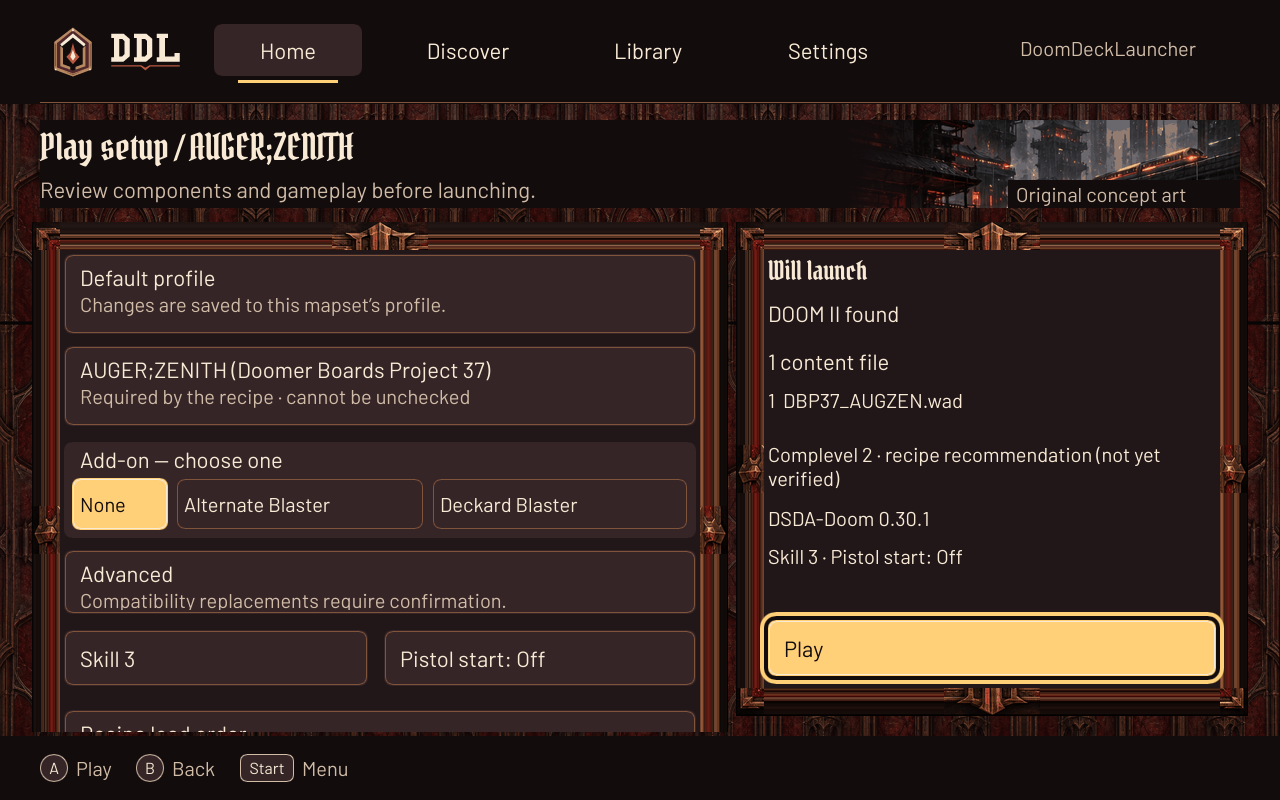
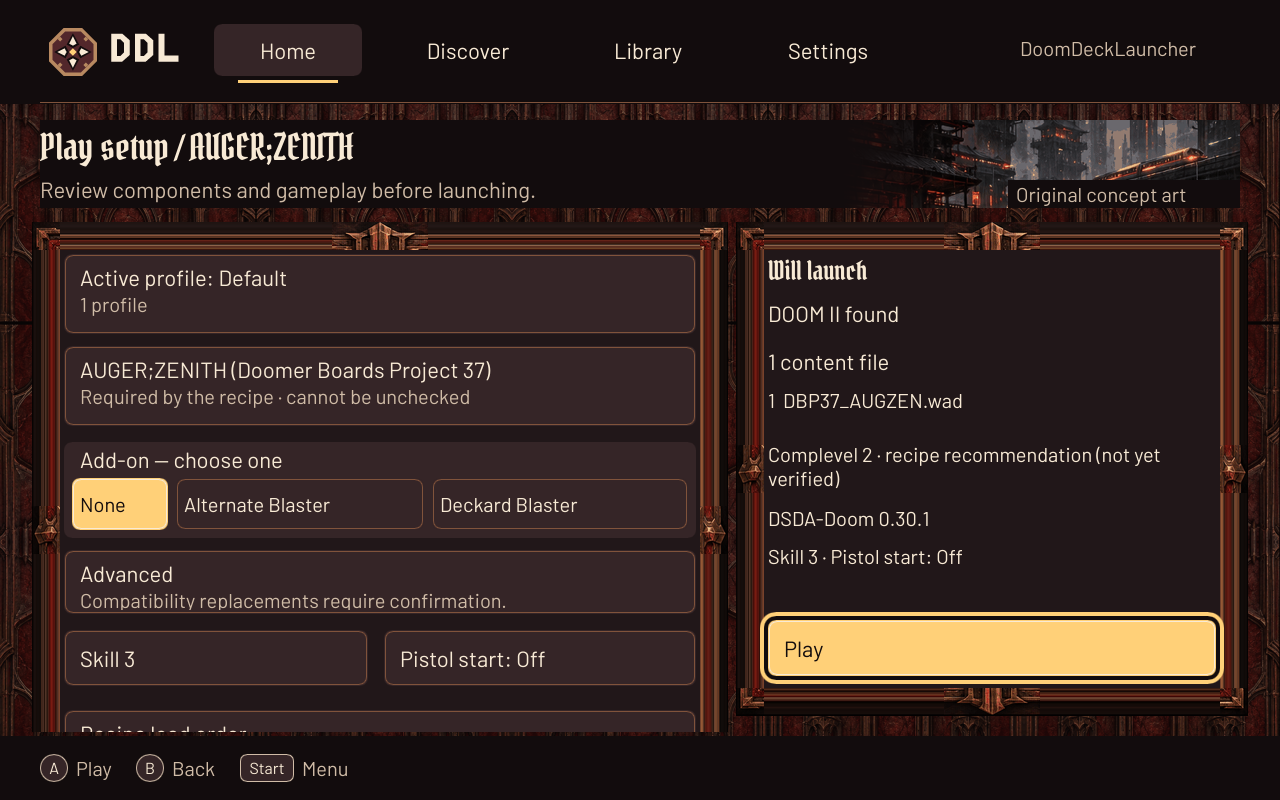
Refresh Rose Compass screenshots and record phase B verification

Changed region(s): [[0.0625, 0.3438, 0.3438, 0.4062], [0.0312, 0.0312, 0.125, 0.0938]]

diff --git a/docs/reports/016-readme-and-logo-v2.md b/docs/reports/016-readme-and-logo-v2.md
@@ -134,3 +134,123 @@ pending choice stated directly in the spec. The coordinator must record the choi
 `docs/decisions.md`; phase B applies it under R2/A2. No edit to decisions, status, journal,
 OVERVIEW or other specs was made. Physical Deck checks for input handoff, gyro, strict
 recording, crop/readability and gameplay remain Needs Deck Validation.
+
+
+# Spec 016 phase B — apply Rose Compass
+
+## Result
+
+**Confirmed:** D-023's Rose Compass replaces Ember Gate in all production masters
+under `docs/design/logo/` and byte-identical compiled SVG copies. The emblem is
+byte-identical to the selected phase-A concept; the DDL contours are that concept's
+upright broad-counter wordmark. Existing lock-up sizes and Barlow full-name outlines
+remain. Header, loading and About references and embedded window-icon wiring already
+point to these paths, so no UI code or behaviour change is needed.
+
+The 256/512 px icons, portrait/wide capsules, transparent Steam logo, README top image
+and 1280×640 social preview use Rose Compass. Original capsule/social scenery and
+composition dimensions are preserved; the logo-free hero SVG and PNG are byte-identical.
+The unchanged release workflow packages the six `docs/design/logo/steam/*.png` files
+into `ddl/art/`; a scratch install check verified identical bytes and mode 0644.
+No local release was built or published.
+
+The usage note documents clear space, minimum sizes and production provenance.
+Native 32/64/256 px contact-sheet inspection on dark/light showed four separated bone
+petals and the amber centre; no alternate small-size emblem is needed. The production
+154×56 px header lock-up retains the same emblem. Rose Compass concept masters remain
+in `logo-v2/` as phase-A evidence; production geometry now lives in `logo/author.py`.
+Old Ember Gate production vectors are retained only in Git history. The original raster
+exploration and prompt in `logo/concepts/` remain for the historical spec 013 report.
+The coordinator authorized wording-only guide updates to remove stale branding and
+pending-choice statements. No new runtime, Cargo or Python dependency was introduced;
+authoring uses the existing pinned design-time fonttools 4.60.1 and resvg 0.47.0.
+
+## Verification
+
+R2/A2 reuse the existing asset dimension/alpha/master-copy integration tests, embedded
+window-icon assertions and headless loading/About journey assertions. The production
+exporter additionally verifies byte equality against the selected Rose Compass emblem.
+Visual originality and legibility require human inspection, rather than a unit test.
+All verification uses off-screen Slint rendering; no visible window or screen capture.
+
+Both author scripts reproduced all SVG bytes. Both production and concept export
+`--check` commands passed. `python3 scripts/check-readme-links.py` passed all 32
+local links/anchors. The social preview, portrait/wide capsules and 32 px/contact-sheet
+exports were inspected directly. Original scenery groups were compared with the parent
+commit, including exact byte equality for the unchanged hero PNG.
+
+`cargo fmt --all --check` — exit 0, no output.
+
+`cargo clippy --workspace --all-targets -- -D warnings` — exit 0, tail:
+
+```text
+   Compiling ddl v0.0.4 (/Users/vitor/orca/workspaces/Doom-Deck-Launcher/spec-016b-logo/crates/ddl)
+    Checking slint v1.18.1
+    Finished `dev` profile [unoptimized + debuginfo] target(s) in 1m 59s
+```
+
+`git merge main` reported `Already up to date` at `de61219`.
+
+
+`cargo test --workspace` — exit 0, **398 tests passed, zero failures**:
+
+```text
+test result: ok. 65 passed; 0 failed; 0 ignored; 0 measured; 0 filtered out; finished in 115.19s
+test result: ok. 2 passed; 0 failed; 0 ignored; 0 measured; 0 filtered out; finished in 1.02s
+test result: ok. 2 passed; 0 failed; 0 ignored; 0 measured; 0 filtered out; finished in 0.06s
+test result: ok. 2 passed; 0 failed; 0 ignored; 0 measured; 0 filtered out; finished in 0.43s
+test result: ok. 1 passed; 0 failed; 0 ignored; 0 measured; 0 filtered out; finished in 0.00s
+test result: ok. 307 passed; 0 failed; 0 ignored; 0 measured; 0 filtered out; finished in 1.07s
+test result: ok. 0 passed; 0 failed; 0 ignored; 0 measured; 0 filtered out; finished in 0.00s
+test result: ok. 16 passed; 0 failed; 0 ignored; 0 measured; 0 filtered out; finished in 0.46s
+test result: ok. 3 passed; 0 failed; 0 ignored; 0 measured; 0 filtered out; finished in 0.00s
+```
+
+Final test tail:
+
+```text
+
+test result: ok. 16 passed; 0 failed; 0 ignored; 0 measured; 0 filtered out; finished in 0.46s
+
+   Doc-tests ddl_core
+
+running 3 tests
+test crates/ddl-core/src/library/mod.rs - library (line 10) - compile ... ok
+test crates/ddl-core/src/downloads/mod.rs - downloads (line 22) - compile ... ok
+test crates/ddl-core/src/profiles/mod.rs - profiles (line 10) - compile ... ok
+
+test result: ok. 3 passed; 0 failed; 0 ignored; 0 measured; 0 filtered out; finished in 0.00s
+
+all doctests ran in 1.21s; merged doctests compilation took 0.97s
+```
+
+Headless `target/headless/010-loading.png` and `013-about.png` were inspected at
+1280×800: Rose Compass appears in the shared header, central loading panel and
+About lock-up without clipping. All four regenerated README screenshots were also
+inspected at native resolution; the header mark and DDL letters remain distinct.
+`python3 scripts/readme-screenshots.py` exited 0 and regenerated the four 1280×800
+images via the documented command:
+
+| Screenshot | Bytes |
+| --- | ---: |
+| Home | 416,023 |
+| Discover | 503,955 |
+| Play setup | 336,048 |
+| Mapset detail | 571,649 |
+
+
+Fresh `python3 scripts/readme-screenshots.py --check` — exit 0:
+
+```text
+test result: ok. 1 passed; 0 failed; 0 ignored; 0 measured; 64 filtered out; finished in 90.97s
+docs/screenshots/home.png: 1280x800, 416,023 bytes
+docs/screenshots/discover.png: 1280x800, 503,955 bytes
+docs/screenshots/play-setup.png: 1280x800, 336,048 bytes
+docs/screenshots/mapset-detail.png: 1280x800, 571,649 bytes
+```
+
+All four screenshot exports reproduced byte-for-byte. `git diff --check` passed.
+A2 is checked; all assigned phase-B work is complete and no product question remains.
+No app behaviour, UI source, engine integration, dependencies, protected decisions or
+coordinator status files were changed. Actual Steam custom-artwork crop, Gaming Mode
+appearance and hardware input remain **Needs Deck Validation** (spec 013 A4).

diff --git a/docs/design/logo/README.md b/docs/design/logo/README.md
@@ -31,7 +31,8 @@ clean SVGs, and the compiled master copies. No network is used by exports or tes
 To edit authored geometry / re-outline the name, use Python 3 with
 `fonttools==4.60.1` in a virtual environment and run `author.py` with that
 environment's Python before exporting. It uses the bundled,
-unmodified OFL Barlow font, with no system-font dependency. The original Ember Gate exploration and prompt remain in `concepts/` for the
+unmodified OFL Barlow font, with no system-font dependency. The original Ember
+Gate exploration and prompt remain in `concepts/` for the
 historical spec 013 report. Its production masters have been replaced; Git history
 preserves the old vectors. The phase-A Rose Compass concept is retained under
 `../logo-v2/rose-compass/`; `author.py` now contains the identical emblem contours

diff --git a/docs/specs/016-readme-and-logo-v2.md b/docs/specs/016-readme-and-logo-v2.md
@@ -37,6 +37,6 @@ stronger logo than the current "Ember Gate".
 
 - [x] **A1** (R1, phase A) — three concepts committed under `docs/design/logo-v2/`;
   owner chose **Rose Compass** (D-023, 2026-10-17).
-- [ ] **A2** (R2) — headless renders show the new logo; export `--check` passes.
+- [x] **A2** (R2) — headless renders show the new logo; export `--check` passes.
 - [x] **A3** (R3–R5) — README and guide committed; screenshots regenerated by the documented
   command; all README/guide links resolve; fmt, clippy `-D warnings`, tests green.
